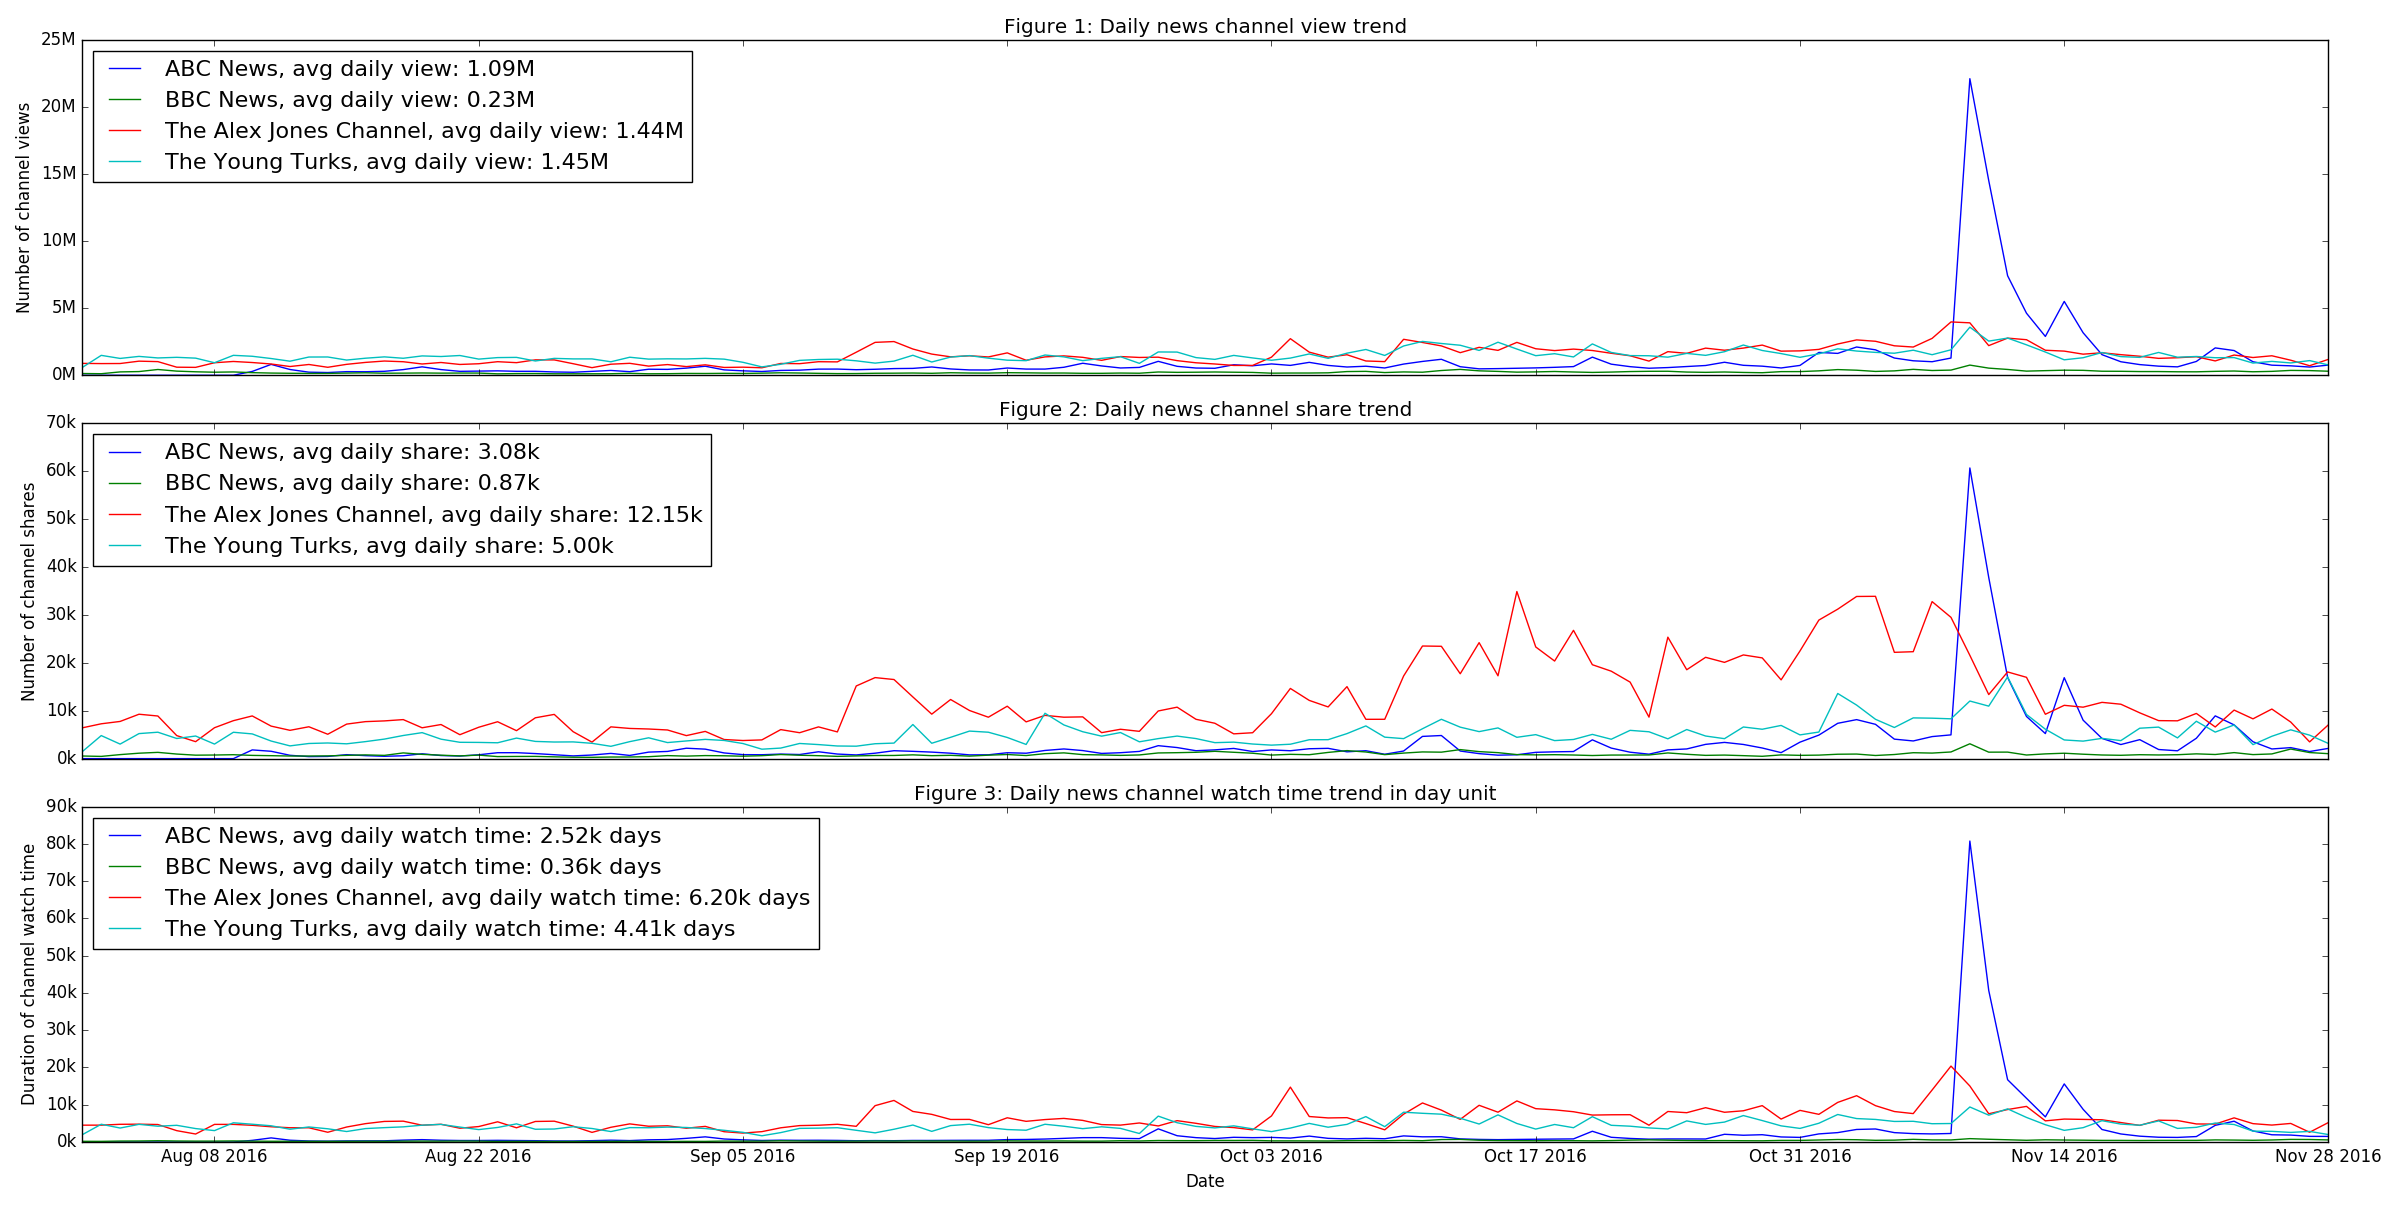
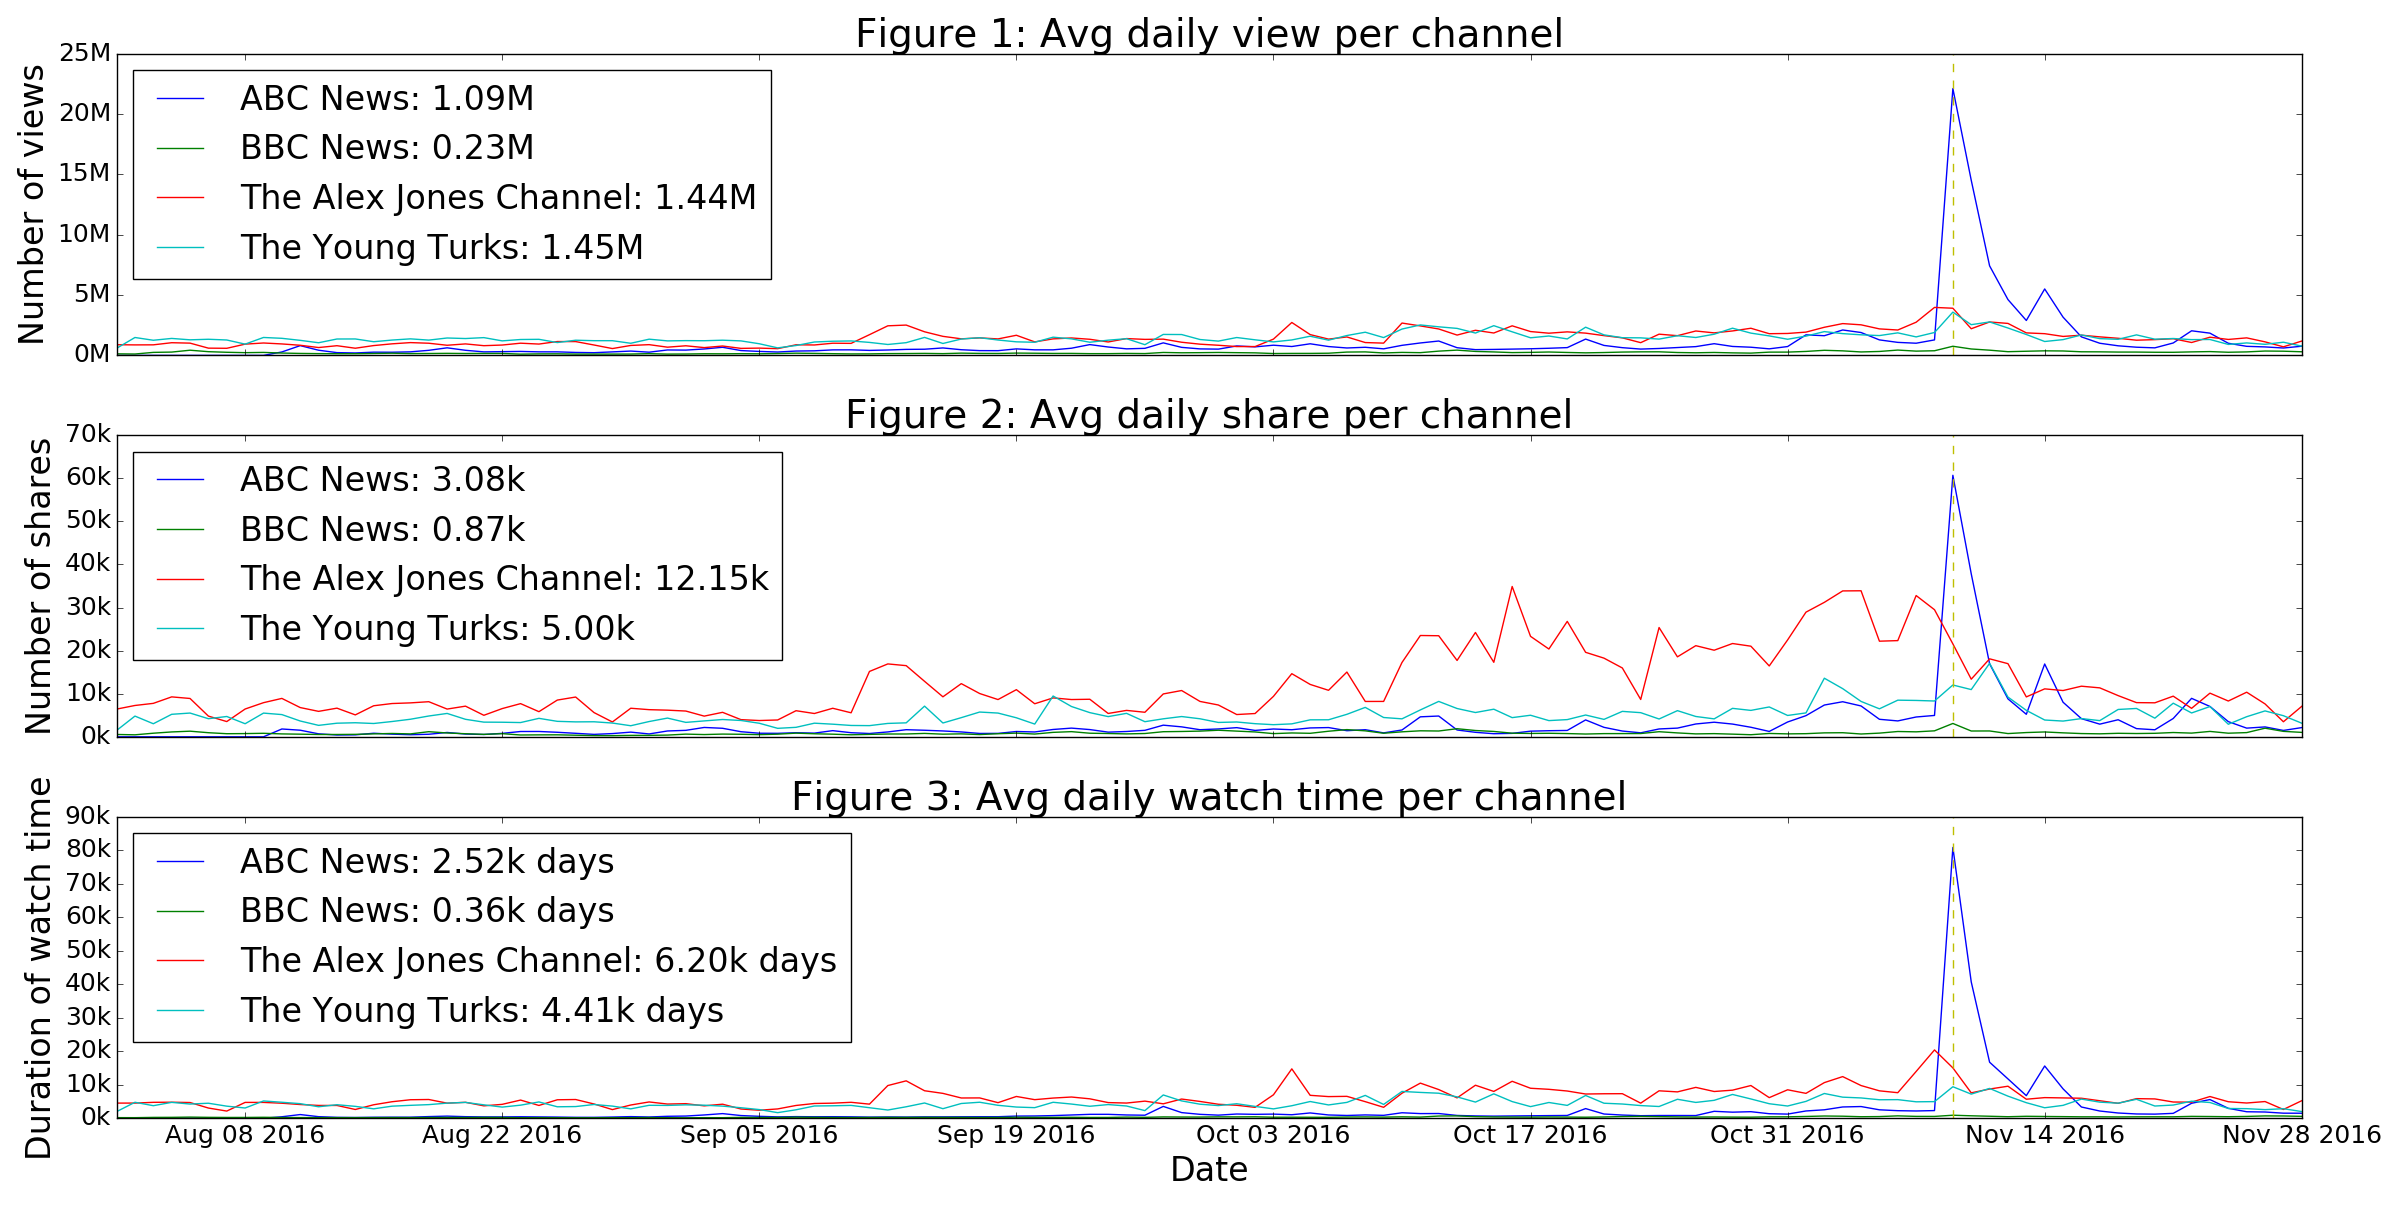
updated yt-news post on anderi's feedback

diff --git a/content/post/youtube_news.md b/content/post/youtube_news.md
@@ -12,10 +12,13 @@ tags:
 
 ##### posted by _Siqi Wu_<br />
 
+<img src="/img/youtube_news/youtube_news_banner.png" width="500"> <br>
+
 The era of information explosion brought a democratization in information consumption and production.
 Regular users not only consume information, but they digest, mutate and produce new information which gets passed on to other users.
 In this post, we focus on analyzing the impact of these emergent sources of information versus traditional media, in the context of politics.
-More precisely, we study how YouTube videos posted by two traditional news sources (**_BBC news/UK_**, **_ABC news/USA_**) and two emergent news sources (**_The Alex Jones Channel_**, **_The Young Turks_**) are viewed around the time of the US political elections of 2016.
+More precisely, we study how YouTube videos posted by two **traditional news sources** (_BBC news/UK_, _ABC news/USA_)
+and two emergent **online news sources** (_The Alex Jones Channel_, _The Young Turks_) are viewed around the time of the US political elections of 2016.
 
 <!--In the era of information explosion, we are witnessing tremendous amounts of information being generated every day.
 The format in which this information is presented ranges from text to audio, image and ultimately, video.
@@ -31,7 +34,7 @@ The term "Political Entertainment" (`Holbert13`) refers to the appeal of politic
 From "Late night show" to the ever-popular TV series "House of Cards", people never get tired of political subjects.
 And thanks to user-generated content platform (YouTube, etc.) and social media (Twitter, etc.), regular users can speak out their appeal and deliver information to others.
 Within this plethora of information producers, a group of professionals stand out and act as an "opinion leaders" to the mass audience, some of which are traditional news sources, while others are political entertainers.
-We collect YouTube viewing data from two of the former (**_BBC news/UK_**, **_ABC news/USA_**) and two of the latter (**_The Alex Jones Channel_**, **_The Young Turks_**) based on the list of the most-subscribed political channels on [vidstatsx](https://vidstatsx.com/youtube-top-100-most-subscribed-news-politics-channels).
+We collect YouTube viewing data from two of the former (_BBC news/UK_, _ABC news/USA_) and two of the latter (_The Alex Jones Channel_, _The Young Turks_) based on the list of the most-subscribed political channels on [vidstatsx](https://vidstatsx.com/youtube-top-100-most-subscribed-news-politics-channels).
 Next, we analyze them and we reveal their very different roles in conveying political information.
 
 ### Are traditional broadcasting company dying out?
@@ -44,7 +47,7 @@ In terms of daily viewcount (Figure 1), both political entertainment channels at
 Figure 3 confirms this conclusion, and it shows the average time that people spend on each of these channels every day.
 Furthermore, political entertainment channels appear to initiate more interaction within their viewership, resulting in a more dynamic sharing behavior (Figure 2).
 
-<img src="/img/youtube_news/news_per_video_stats.png" height=250>
+<img src="/img/youtube_news/news_per_video_stats.png" height=275>
 
 Figure 4 and Figure 5 show the _per video_ lifetime statistic, aggregated for each channel as a boxplot, therefore making sure that the conclusions are not skewed by the volume of videos posted by each channel.
 We observe that videos posted by political entertainment channels consistently receive more views and more comments that those posted by traditional news sources.
@@ -52,26 +55,28 @@ We observe that videos posted by political entertainment channels consistently r
 
 ### A close look on election day
 
-We also notice that **_ABC news/USA_** received very high traffic on the 2016 US election day, thus we take a close look to see how real time major event influences online traffic.
+We also notice that _ABC news/USA_ received very high traffic on the 2016 US election day, thus we take a close look to see how real time major event influences online traffic.
 
 <img src="/img/youtube_news/news_election_day.png" height=450>
 
 The dot in above picture (Figure 6) represents a recorded video and the horizontal line refers to a brand new broadcasting format on Internet -- YouTube Live, with length from start time to finish.
 
-On the election day, **_ABC news/USA_** drew more than 20 million views and more than 70 thousand days watch time, primarily because it streamed presidential election and it published the first 3 speeches from the candidates.
-<span style="color:red">And this made up of top 6 videos about election on that day.</span> (MAR: I don't understand this phrase).
+On the election day, _ABC news/USA_ drew more than 20 million views and more than 70 thousand days watch time, primarily because it streamed presidential election and it published the first 3 speeches from the candidates.
+Top 5 election blockbusters are highlighted in above figure with video title.
 This reveals that when it comes to being informed about hard facts, the public still prefers first-hand authority news outlets as its source of information.
 
-Corroborated with Figure 1, we also notice that **_ABC news/USA_** achieve this instantaneous gain of public attention at the expense of others.
-The **_The Alex Jones Channel_** lost insignificant amount **MAR: significant or insignificant? Also, Figure 1 needs a vertical line marking the election day** of views and shares on that day, especially on shares.
+Corroborated with Figure 1, we also notice that _ABC news/USA_ achieve this instantaneous gain of public attention at the expense of others.
+_The Alex Jones Channel_ lost significant amount of attentions on that day, especially in terms of shares.
 This matches with previous research that online media are for competing limited attention (`Weng13`).
-Another intuition is that YouTube live seems a promising format for broadcasting news, <span style="color:red">with the traffic volume of YouTube live videos drew are numerous while the number of them remains small.</span> **(MAR: need to rephrase this. I don't understand)**
+Another intuition is that YouTube live seems a promising format for broadcasting news.
+They have been widely adopted and shown the capability to draw numerous traffic.
 
 ### Conclusion
 
 To conclude, we have found that traditional news source and political entertainment media aim at different functionality.
 The former focus on delivering authentic news content, while the later are more subjective with the purpose to entertain, engage, or persuade.
-<span style="color:red">MAR: this is too general, make it juicier! What do people prefer, when?</span>
+In other words, when I am looking for first-hand news, I want the source to be canonical.
+But when I am digging into some concrete facts, show me something fun!
 
 #### References
 
